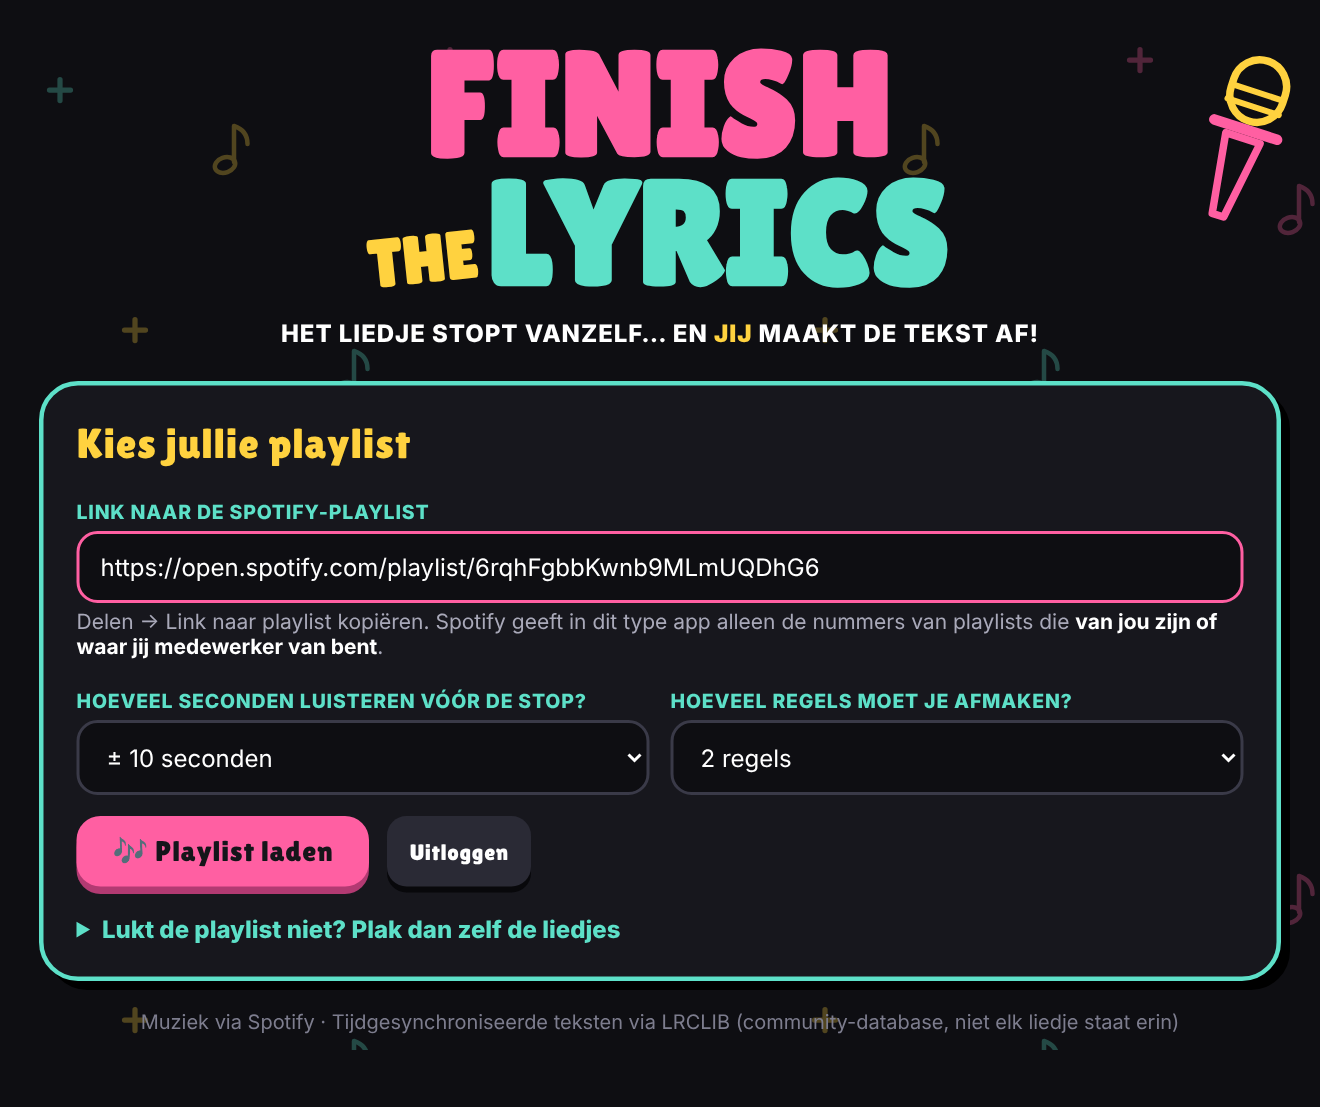
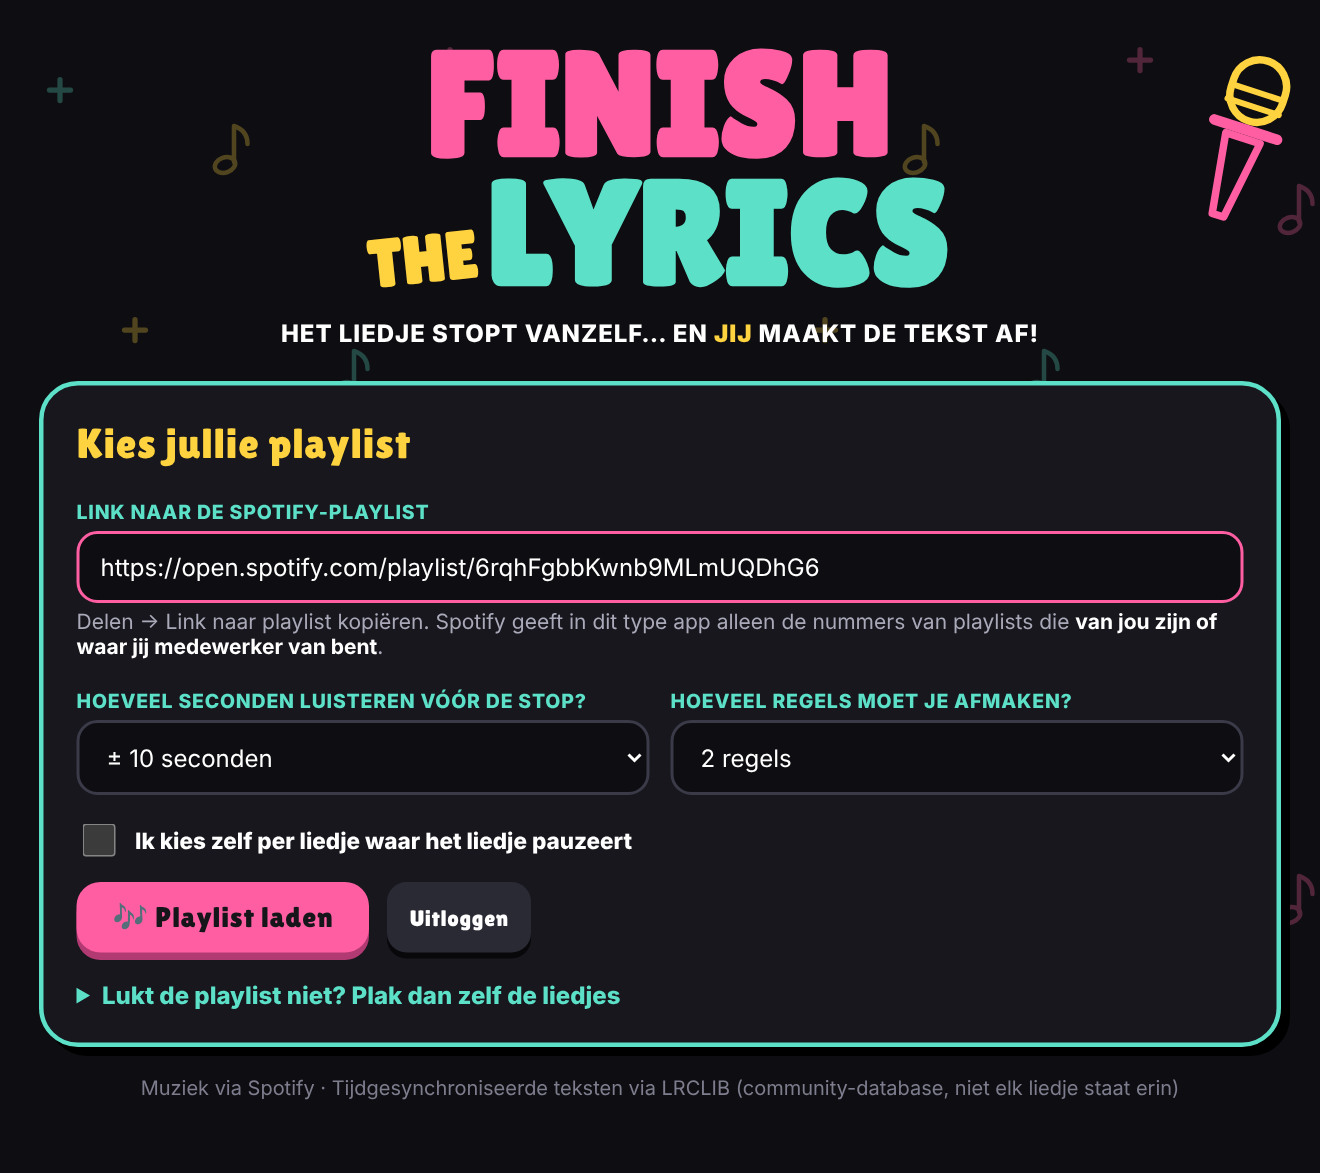
New functions
Je kunt nu zelf per liedje kiezen waar het pauzeert, voordat het spel begint.

diff --git a/index.html b/index.html
@@ -88,6 +88,13 @@
   .player .score{background:var(--c,var(--teal)); color:#0b0b0f; font-family:var(--display); font-size:40px; line-height:1.15; padding:4px 0}
   .player .pb .btn.mint{background:var(--c,var(--teal)); box-shadow:0 4px 0 rgba(0,0,0,.55)}
   .player .pb{display:flex; gap:6px; justify-content:center; padding:10px 6px; background:var(--panel)}
+  .chk{display:flex; gap:10px; align-items:center; margin-top:16px; text-transform:none; letter-spacing:0; font-size:15px; color:#fff; cursor:pointer}
+  .chk input{width:22px; height:22px; padding:0; accent-color:var(--pink); flex:none}
+  .prep-row{background:#0e0e12; border:2px solid #2b2b36; border-radius:16px; padding:12px 14px; margin-bottom:10px}
+  .prep-row .nm{font-family:var(--display); font-size:20px; margin-bottom:8px}
+  .prep-row .nm small{display:block; font-family:"Segoe UI",system-ui,sans-serif; font-size:14px; color:var(--muted); font-weight:700}
+  .prep-row .sel{display:flex; gap:10px; flex-wrap:wrap; align-items:center}
+  .prep-row select{flex:1 1 260px; width:auto; min-width:0}
   details summary{cursor:pointer; font-weight:800; color:var(--teal)}
   small.credit{display:block; text-align:center; color:#7d7d8e; margin-top:6px}
 </style>
@@ -128,6 +135,7 @@
       <div><label for="setLines">Hoeveel regels moet je afmaken?</label>
         <select id="setLines"><option value="1">1 regel</option><option value="2" selected>2 regels</option><option value="3">3 regels</option></select></div>
     </div>
+    <label class="chk"><input type="checkbox" id="setManual"> Ik kies zelf per liedje waar het liedje pauzeert</label>
     <div class="controls" style="justify-content:flex-start"><button class="btn" id="loadBtn">🎶 Playlist laden</button>
       <button class="btn alt small" id="logoutBtn">Uitloggen</button></div>
 
@@ -144,6 +152,16 @@
     <h2 style="margin-top:0" id="loadTitle">Bezig…</h2>
     <div class="bar"><div id="loadBar"></div></div>
     <p class="hint" id="loadText"></p>
+  </section>
+
+  <!-- 3b. Stopmomenten kiezen (optioneel) -->
+  <section id="screenPrep" class="hidden">
+    <div class="card">
+      <h2 style="margin-top:0">Kies je stopmomenten</h2>
+      <p class="hint">Kies per liedje na welke regel het liedje pauzeert. Laat je het op 🎲 staan, dan kiest de app zelf een moment. Met <b>🎧 Beluister</b> hoor je het stuk vóór de stop. Let op: dit scherm laat de tekstregels zien, kijk dus niet mee als deelnemers meekijken.</p>
+      <div id="prepList"></div>
+      <div class="controls"><button class="btn" id="prepStart">▶ Start het spel</button></div>
+    </div>
   </section>
 
   <!-- 4. Spel -->
@@ -210,36 +228,50 @@ function cleanTitle(s){
   return String(s).replace(/\s*[-–]\s*(remaster|remastered|live|radio edit|single version|\d{4}|version|mono|stereo|from|bonus|deluxe).*$/i,"")
                   .replace(/\s*[(\[].*?[)\]]/g,"").trim();
 }
+function fmtTime(ms){ const s=Math.floor(ms/1000); return Math.floor(s/60)+":"+String(s%60).padStart(2,"0"); }
 
-/* Kiest een stopmoment: de eerste ontbrekende regel begint direct na de stop. Refreinregels (komen vaker voor) wegen zwaarder. */
+/* Indexen van regels met tekst (lege regels in de LRC markeren alleen pauzes) */
+function textIdx(lines){ const idx=[]; lines.forEach((l,i)=>{ if(l.text) idx.push(i); }); return idx; }
+
+/* Stop na tekstregel nummer j: de eerstvolgende regels (nMissing) zijn de ontbrekende tekst */
+function stopFor(lines,idx,j,nMissing,leadMs){
+  if(j<0||j+nMissing>=idx.length) return null;
+  const sung=idx[j], nextEntry=lines[sung+1]; if(!nextEntry) return null;
+  const stopT=Math.min(nextEntry.t, lines[sung].t+7000);          // einde van de laatst gezongen regel
+  const missing=[]; for(let k=1;k<=nMissing;k++) missing.push(lines[idx[j+k]].text);
+  let startMs=Math.max(0,stopT-leadMs);                             // begin van een regel, ongeveer leadMs vóór de stop
+  for(let k=0;k<idx.length;k++){ const t=lines[idx[k]].t; if(t<=stopT-leadMs) startMs=t; else break; }
+  return { j, startMs, stopMs:stopT, resumeMs:lines[idx[j+1]].t, context:lines[sung].text, missing };
+}
+/* Alle mogelijke stopmomenten van een liedje (voor de handmatige keuze) */
+function listStops(lines,nMissing,leadMs){
+  const idx=textIdx(lines), out=[];
+  for(let j=0;j<idx.length;j++){ const s=stopFor(lines,idx,j,nMissing,leadMs); if(s) out.push(s); }
+  return out;
+}
+function stopAt(lines,j,nMissing,leadMs){ return stopFor(lines,textIdx(lines),j,nMissing,leadMs); }
+
+/* Kiest zelf een stopmoment: de zang hervat direct daarna. Refreinregels (komen vaker voor) wegen zwaarder. */
 function pickStop(lines,durationMs,nMissing,leadMs,rnd){
   rnd=rnd||Math.random;
-  const idx=[]; lines.forEach((l,i)=>{ if(l.text) idx.push(i); });
+  const idx=textIdx(lines);
   if(idx.length<nMissing+3) return null;
   const counts={}; idx.forEach(i=>{ const k=norm(lines[i].text); if(k) counts[k]=(counts[k]||0)+1; });
   const cands=[];
   for(let j=1;j+nMissing<idx.length;j++){
-    const sung=idx[j], nextEntry=lines[sung+1];
-    if(!nextEntry) continue;
-    const stopT=Math.min(nextEntry.t, lines[sung].t+7000);          // einde van de laatst gezongen regel
-    const m1=lines[idx[j+1]], mN=lines[idx[j+nMissing]];
-    if(stopT<20000) continue;
-    if(durationMs && stopT>durationMs*0.85) continue;
-    if(m1.t-stopT>4000) continue;                                    // zang hervat vrijwel meteen
-    if(mN.t-m1.t>12000) continue;
-    const missing=[]; for(let k=1;k<=nMissing;k++) missing.push(lines[idx[j+k]].text);
-    if(missing.join(" ").length<10) continue;
-    const chorus=(counts[norm(missing[0])]||0)>=2;
-    cands.push({j,stopT,missing,w:chorus?3:1});
+    const s=stopFor(lines,idx,j,nMissing,leadMs); if(!s) continue;
+    if(s.stopMs<20000) continue;
+    if(durationMs && s.stopMs>durationMs*0.85) continue;
+    if(s.resumeMs-s.stopMs>4000) continue;                           // zang hervat vrijwel meteen
+    if(lines[idx[j+nMissing]].t-s.resumeMs>12000) continue;
+    if(s.missing.join(" ").length<10) continue;
+    const chorus=(counts[norm(s.missing[0])]||0)>=2;
+    cands.push({s,w:chorus?3:1});
   }
   if(!cands.length) return null;
-  let tot=cands.reduce((s,c)=>s+c.w,0), r=rnd()*tot, pick=cands[cands.length-1];
+  let tot=cands.reduce((a,c)=>a+c.w,0), r=rnd()*tot, pick=cands[cands.length-1];
   for(const c of cands){ r-=c.w; if(r<=0){ pick=c; break; } }
-  // startpunt: begin van een regel, ongeveer leadMs vóór de stop
-  let startMs=Math.max(0,pick.stopT-leadMs);
-  for(let k=0;k<idx.length;k++){ const t=lines[idx[k]].t; if(t<=pick.stopT-leadMs) startMs=t; else break; }
-  return { startMs, stopMs:pick.stopT, resumeMs:lines[idx[pick.j+1]].t,
-           context:lines[idx[pick.j]].text, missing:pick.missing };
+  return pick.s;
 }
 /*LOGIC-END*/
 
@@ -257,7 +289,7 @@ function pickStop(lines,durationMs,nMissing,leadMs,rnd){
   const delL=k=>{ try{ LS.removeItem(k) }catch(e){} };
 
   function msg(t,kind){ const m=$("msg"); if(!t){ m.classList.add("hidden"); return; } m.className="msg "+(kind||""); m.innerHTML=t; }
-  function screen(n){ ["Setup","Playlist","Loading","Game"].forEach(s=>$("screen"+s).classList.toggle("hidden",s!==n)); }
+  function screen(n){ ["Setup","Playlist","Loading","Prep","Game"].forEach(s=>$("screen"+s).classList.toggle("hidden",s!==n)); }
 
   /* ---------- Spotify-login (PKCE, geen geheim nodig) ---------- */
   const clientId=()=>DEFAULT_CLIENT_ID||getL("mhla.cid","");
@@ -418,8 +450,32 @@ function pickStop(lines,durationMs,nMissing,leadMs,rnd){
     if(!ok.length){ screen("Playlist"); msg("Bij geen enkel liedje is een tijdgesynchroniseerde tekst gevonden. Probeer een playlist met meer bekende (Engelstalige) hits.","err"); return; }
     deck=shuffle(ok); $("skipped").innerHTML=skipped.length
       ? "Overgeslagen, geen geschikte tekst gevonden: "+skipped.map(t=>esc(t.name+" – "+(t.artists[0]||""))).join(", ") : "";
-    msg(""); screen("Game"); enter(0);
+    msg("");
+    if($("setManual").checked) showPrep(); else { screen("Game"); enter(0); }
   }
+
+  /* ---------- Stopmomenten zelf kiezen ---------- */
+  function showPrep(){
+    screen("Prep");
+    const s=settings();
+    $("prepList").innerHTML=deck.map((t,k)=>{
+      const opts=listStops(t.lines,s.lines,s.lead).map(x=>'<option value="'+x.j+'"'+(t.manualJ===x.j?' selected':'')+'>'+fmtTime(x.stopMs)+' · na: '+
+        esc(x.context.length>70?x.context.slice(0,67)+"…":x.context)+'</option>').join("");
+      return '<div class="prep-row"><div class="nm">'+esc(t.name)+'<small>'+esc(t.artists.join(", "))+'</small></div><div class="sel">'+
+        '<select data-i="'+k+'" aria-label="Stopmoment voor '+esc(t.name)+'"><option value="">🎲 Laat de app kiezen</option>'+opts+'</select>'+
+        '<button class="btn alt small" data-i="'+k+'">🎧 Beluister</button></div></div>';
+    }).join("");
+  }
+  $("prepList").onchange=e=>{ const sel=e.target.closest("select"); if(sel) deck[+sel.dataset.i].manualJ=sel.value===""?null:+sel.value; };
+  $("prepList").onclick=async e=>{
+    const b=e.target.closest("button"); if(!b) return;
+    const t=deck[+b.dataset.i], s=settings();
+    const st=t.manualJ!=null?stopAt(t.lines,t.manualJ,s.lines,s.lead):pickStop(t.lines,t.durMs,s.lines,s.lead);
+    if(!st) return;
+    try{ await playFrom(t.uri,st.startMs); armStop(st.startMs,st.stopMs,function(){}); }
+    catch(err){ msg("Afspelen lukt niet ("+esc(err.message)+").","err"); }
+  };
+  $("prepStart").onclick=()=>{ clearInterval(watch); if(player) player.pause().catch(function(){}); msg(""); screen("Game"); enter(0); };
 
   /* ---------- Spel ---------- */
   let deck=[], i=0, cur=null;
@@ -432,7 +488,8 @@ function pickStop(lines,durationMs,nMissing,leadMs,rnd){
     clearInterval(watch); if(player) player.pause().catch(()=>{});
     for(let k=0;k<deck.length;k++){
       i=((n+k)%deck.length+deck.length)%deck.length; const t=deck[i];
-      const stop=pickStop(t.lines,t.durMs,settings().lines,settings().lead);
+      let stop=t.manualJ!=null?stopAt(t.lines,t.manualJ,settings().lines,settings().lead):null;
+      if(!stop) stop=pickStop(t.lines,t.durMs,settings().lines,settings().lead);
       if(stop){ cur={track:t,stop,revealed:false}; break; }
     }
     $("counter").textContent="Liedje "+(i+1)+" van "+deck.length;
@@ -463,7 +520,7 @@ function pickStop(lines,durationMs,nMissing,leadMs,rnd){
   $("revealBtn").onclick=reveal;
   $("nextBtn").onclick=()=>enter(i+1);
   $("prevBtn").onclick=()=>enter(i-1);
-  $("rerollBtn").onclick=()=>enter(i);
+  $("rerollBtn").onclick=()=>{ deck[i].manualJ=null; enter(i); };
   $("contBtn").onclick=async()=>{ try{ await playFrom(cur.track.uri,cur.stop.stopMs-200); $("status").textContent="🎶 Zo ging het verder…"; }catch(e){ msg("Afspelen lukt niet.","err"); } };
   $("vol").oninput=e=>{ if(player) player.setVolume(e.target.value/100); };
   document.addEventListener("keydown",e=>{
@@ -525,6 +582,8 @@ function pickStop(lines,durationMs,nMissing,leadMs,rnd){
     $("clientId").value=clientId();
     if(DEFAULT_CLIENT_ID) $("clientId").parentElement.classList.add("hidden");
     $("playlistUrl").value=getL("mhla.playlist","");
+    $("setManual").checked=getL("mhla.manual","0")==="1";
+    $("setManual").onchange=()=>setL("mhla.manual",$("setManual").checked?"1":"0");
     renderPlayers();
     await handleReturn();
     if(getL("mhla.refresh","")||getL("mhla.access","")){ screen("Playlist"); initPlayer(); }

diff --git a/README.md b/README.md
@@ -35,6 +35,17 @@ In het scorebord krijgt elk team automatisch een eigen kleur (acht kleuren, daar
 
 Op het beginscherm kies je hoeveel seconden er vóór de stop wordt gespeeld (6 tot 25) en hoeveel regels er moeten worden afgemaakt (1 tot 3).
 
+### Zelf kiezen waar het liedje pauzeert
+
+Standaard kiest de app per liedje zelf een stopmoment. Wil je dat zelf bepalen, vink dan op het beginscherm **"Ik kies zelf per liedje waar het liedje pauzeert"** aan. Na het laden van de playlist zie je een keuzescherm:
+
+- Kies per liedje in de lijst na welke regel het liedje pauzeert. De tijd staat erbij.
+- Met **🎧 Beluister** hoor je meteen het stuk vóór die stop.
+- Laat je een liedje op **🎲 Laat de app kiezen** staan, dan kiest de app zelf, net als anders.
+- Druk op **▶ Start het spel** als je klaar bent.
+
+Dit scherm toont de tekstregels, dus doe dit voordat de deelnemers meekijken. Tijdens het spel kies je met **🎲 Ander moment** een willekeurig ander stopmoment, ook bij een liedje waarvoor je zelf een moment had gekozen. Je keuzes gelden voor deze ronde en worden niet bewaard.
+
 ## Schermen
 
 | | |
@@ -43,6 +54,8 @@ Op het beginscherm kies je hoeveel seconden er vóór de stop wordt gespeeld (6 
 | **1. Eenmalig Spotify koppelen** | **2. Playlist plakken en instellingen kiezen** |
 | ![Luisteren](03-luisteren.png) | ![Songtekst tonen](05-songtekst.png) |
 | **3. Het liedje speelt** | **4. De songtekst, titel en artiest verschijnen** |
+| ![Stopmomenten kiezen](06-stopmomenten.png) | |
+| **Optioneel: zelf de stopmomenten kiezen** | |
 
 ## Installeren
 
